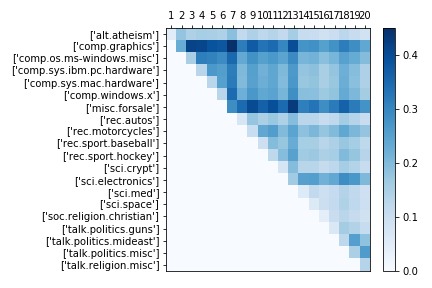
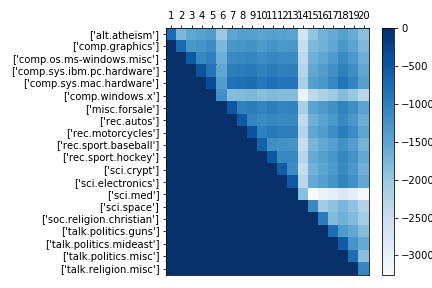
d

diff --git a/HW2/HW2.py b/HW2/HW2.py
@@ -10,6 +10,9 @@ import numpy as np
 import warnings
 import csv
 
+
+
+
 def makeHeatMap(data, names, color, outputFileName):
 	#to catch "falling back to Agg" warning
 	with warnings.catch_warnings():
@@ -174,6 +177,7 @@ def cosineNN(article):
         if (cosineSim > curMax):
             curMax = cosineSim
             curNNGroup = int( labels[i-1])
+    
     return curNNGroup
 
 # Iterates over all articles and increments the value of the cosineNN in a table
@@ -181,9 +185,9 @@ def cosineNN(article):
 def baselineCosineNN():
     baselineCosineNN = np.zeros(shape=(20,20)) #table for cosine NN heatmap
     errorCounter = 0.0
-    for i in range (1, 1000):
+    for i in range (1, len(main)):
         NN = cosineNN(i)
-        ownLabel = int (labels[i])
+        ownLabel = int (labels[i - 1])
         if (ownLabel != NN):
             errorCounter += 1
         baselineCosineNN[ownLabel - 1, NN - 1]  += 1.0
@@ -193,18 +197,18 @@ def baselineCosineNN():
     print("Average classification error: ") 
     print(errorCounter)
 
+#Dimension reduction main function. Constructs d X 129532 matrix to reduce the
+# main 3 X 129532 matrix to a matrix of size d X 3
 def dimensionReduction():
     dimArray = np.zeros(shape=(10, 129532),dtype=float)  # Main data table
     for j in dimArray:
         for k in j:
-            j[k] = np.random.normal(0, 1)
-    
-    main = np.dot(dimArray, main)
+            j[k] = np.random.normal(0, 1)          
+    temp = np.dot(dimArray, main)
+    global main 
+    main = temp
+    print(main)
     baselineCosineNN()
-    
-    
-                           
-
     
 global main
 global groups
@@ -214,17 +218,21 @@ global dataL2
 global Cos
 global divArr
 
-main = np.zeros(shape=(129532,3),dtype=int)  # Main data table
+main = np.zeros(shape=(129532,3),dtype=float)  # Main data table
 groups = ['0'] * 20    # List of group names
 labels = [0] * 1000    # List of labels for the articles
 importFiles()
 dataJacc = np.zeros(shape=(20,20))   # Where the data for Jaccard heatmap will go
 dataL2 = np.zeros(shape=(20,20))   # Where the data for L2 heatmap will go
 dataCos = np.zeros(shape=(20,20))   # Where the data for Cosine heatmap will go
-divArr = np.full((20,20),2500.)
+divArr = np.full((20,20),2500.)    
+                           
 
-#dimensionReduction()
+    
+
+
 #jaccMaster()
-L2Master()
+#L2Master()
 #cosineMaster()
 #baselineCosineNN()
+dimensionReduction()
